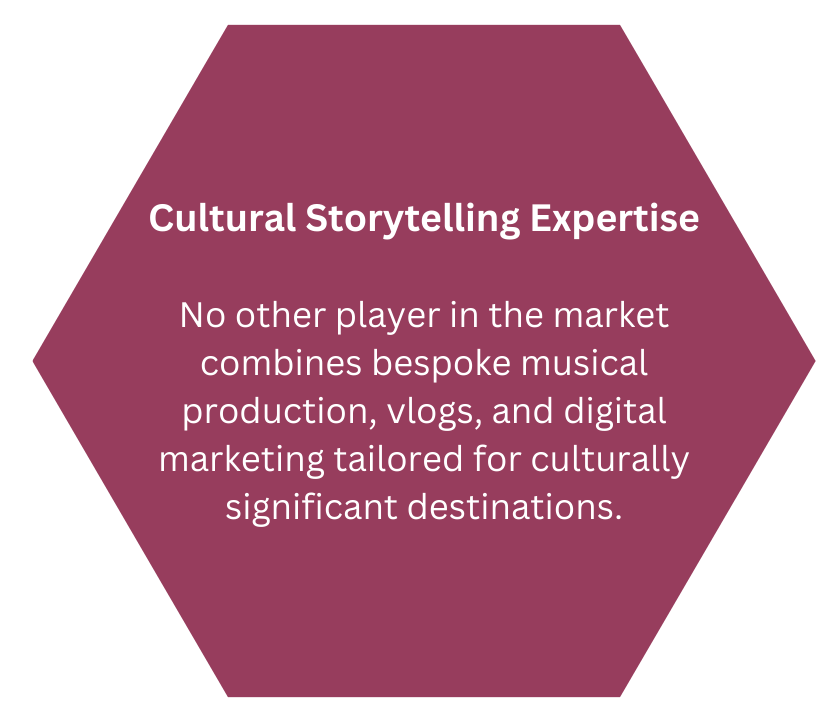
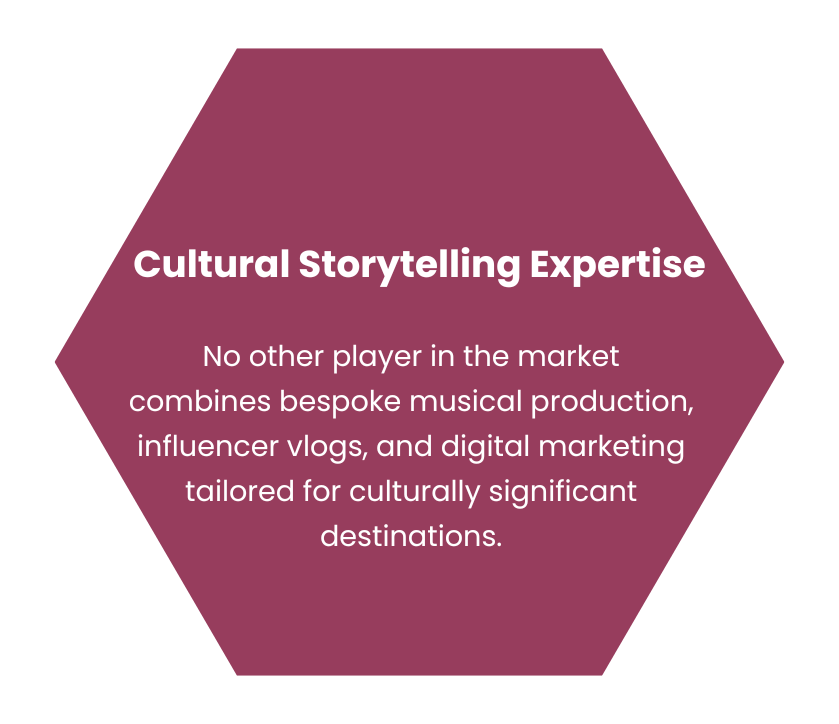
Styling changes for unwind communications

Changed region(s): [[0.031, 0.0304, 0.9917, 0.9724]]

diff --git a/src/components/Instagram/Section3.js b/src/components/Instagram/Section3.js
@@ -43,16 +43,18 @@ const Section3 = () => {
           data-aos-duration="800"
         >
           <h3 className="section3-subtitle">
-            Empowering PM Modi&apos;s Vision For भारत As a Leading Global
-            Destination
+            Empowering{" "}
+            <span style={{ color: "#973d5d" }}>PM Modi&apos;s Vision</span> For{" "}
+            <span style={{ color: "#973d5d" }}>भारत</span> As a{" "}
+            <span style={{ color: "#973d5d" }}>Leading Global Destination</span>
           </h3>
           <p>
-            Our Respected Prime Minister, Shri Narendra Modi Ji, envisions
-            Bharat as a Leading Global Destination for Wedding and MICE Tourism,
-            showcasing India’s Vibrancy, Grandeur, and Cultural Magnificence as
-            the ultimate destination to explore. Shefali is deeply committed to
-            bringing this vision to life, transforming PM Modi Ji’s dream into a
-            remarkable reality!
+            Our Respected Prime Minister, Shri Narendra Modi Ji, envisions{" "}
+            <b>Bharat</b> as a <b>Leading Global Destination</b> for Wedding and
+            MICE Tourism, showcasing India’s Vibrancy, Grandeur, and Cultural
+            Magnificence as the ultimate destination to explore. Shefali is
+            deeply committed to bringing this vision to life, transforming{" "}
+            <b>PM Modi Ji’s dream into a remarkable reality!</b>
           </p>
         </div>
         {isMobile && (
@@ -78,13 +80,18 @@ const Section3 = () => {
           data-aos="fade-right"
           data-aos-duration="800"
         >
-          <h3 className="section3-subtitle">Award for Excellence</h3>
+          <h3 className="section3-subtitle">
+            Shefali&apos;s <span style={{ color: "#973d5d" }}>Recognition</span>{" "}
+            And <span style={{ color: "#973d5d" }}>Achievements</span>
+          </h3>
           <p>
-            Shefali is awarded as a POWER WOMAN by renowned lyricist and
-            screenwriter, Javed Akhtar Sahab with a dedicated poetry in his
-            handwriting for her Incredible work in Ghoomar - A Royal Folk as a
-            Singer, Performer, Director and Producer! This award is powered by
-            IPRS, Dolby and Hungama.
+            Shefali Saxena is awarded as a <b>POWER WOMAN</b> by renowned
+            lyricist & screenwriter, <b>Javed Akhtar Sahab</b> with a dedicated
+            poetry in his handwriting for her Incredible works in{" "}
+            <b>Ghoomar - A Royal Folk</b> as a Featured Artist, Singer, Director
+            & Producer, supporting folk musicians!
+            <br />
+            <b>This award is powered by IPRS, Dolby & Hungama.</b>
           </p>
         </div>
         <div

diff --git a/src/components/Instagram/About.js b/src/components/Instagram/About.js
@@ -21,7 +21,12 @@ const About = () => {
         <div className="container-fluid">
           <div className="row align-items-center">
             {isMobile && (
-              <h2 style={{ color: "#041d33", textAlign: "center" }}>
+              <h2
+                style={{
+                  color: "#973d5d",
+                  textAlign: "center",
+                }}
+              >
                 About Us
               </h2>
             )}
@@ -52,15 +57,18 @@ const About = () => {
               data-aos-once="true"
             >
               <div className="about-content">
-                {!isMobile && <h2 style={{ color: "#041d33" }}>About Us</h2>}
+                {!isMobile && <h2 style={{ color: "#973d5d" }}>About Us</h2>}
 
                 <p>
-                  At Unwind Communications, we bring most stunning destinations
-                  and venues to life on streaming platforms, creating a visual
-                  experience that resonates worldwide.
+                  At <b>Unwind Communications</b>, we bring{" "}
+                  <b>
+                    most stunning destinations and venues to life on streaming
+                    platforms
+                  </b>
+                  , creating a visual experience that resonates worldwide.
                 </p>
                 <p>
-                  Our expertise extends beyond the initial presentation. We
+                  Our expertise extends beyond the initial global reach. We
                   amplify your story through:
                   <ul>
                     <li>
@@ -75,9 +83,11 @@ const About = () => {
                   </ul>
                 </p>
                 <p>
-                  within the <b>MICE, Travel </b> and <b>Wedding Industries.</b>{" "}
-                  We don’t just enhance brand visibility; we forge powerful
-                  narratives that open up new realms of opportunity
+                  within the <b>MICE, Travel, Event </b> and{" "}
+                  <b>Wedding Industries.</b> We don’t just enhance brand
+                  visibility; we forge powerful narratives through Vlogs that
+                  open up new realms of opportunity{" "}
+                  <b>for B2B opportunities & conversions</b>.
                 </p>
 
                 {/* <div className="btn-box"> */}

diff --git a/src/components/Instagram/VideoArea.js b/src/components/Instagram/VideoArea.js
@@ -29,23 +29,26 @@ const VideoArea = () => {
             >
               <div className="video-content">
                 <h2 style={{ color: "#041d33" }}>
-                  Official Recognition From The Ministry Of Tourism & Culture,
-                  Government Of India:
+                  Official Recognition From The{" "}
+                  <span style={{ color: "#973d5d" }}>
+                    Ministry Of Tourism & Culture
+                  </span>
+                  , Government Of India
                 </h2>
                 <p>
-                  Proudly endorsed by the{" "}
+                  Proudly endorsed by Shri. Gajendra Singh Shekhawat ji, the{" "}
                   <b>Minister of Tourism & Culture, Government of India,</b>{" "}
                   Unwind Communications is recognized for its pivotal role in{" "}
-                  promoting India’s cultural heritage. This recognition
+                  <b>promoting India’s cultural heritage</b>. This recognition
                   strengthens our mission to convert cultural storytelling into:
                 </p>
                 <ul>
-                  <li>Thriving Business Opportunities,</li>
-                  <li>Driving Tourism Growth,</li>
-                  <li>Empowering Local Economies,</li>
+                  <li>Thriving Business Opportunities</li>
+                  <li>Driving Tourism Growth</li>
+                  <li>Empowering Local Economies</li>
                   <li>
                     Positioning India&apos;s heritage as a cornerstone of global
-                    travel experiences.
+                    travel experiences
                   </li>
                 </ul>
               </div>

diff --git a/src/components/Instagram/Section4.js b/src/components/Instagram/Section4.js
@@ -29,16 +29,24 @@ const Section4 = () => {
             >
               <div className="video-content">
                 <h2 style={{ color: "#041d33" }}>
-                  INDIA-RUSSIA BUSINESS FORUM
+                  INDIA-RUSSIA{" "}
+                  <span style={{ color: "#973d5d" }}>
+                    BUSINESS FORUM, by FICCI India
+                  </span>
                 </h2>
                 <p>
-                  Empowering Global Collaboration: Hosted the distinguished
-                  India-Russia Business Forum, featuring a keynote address by
-                  External Affairs Minister Dr. S. Jaishankar on bilateral
-                  agreements and business connectivity.
+                  A Prestigious Event Hosted by{" "}
+                  <span style={{ color: "#973d5d" }}>Shefali Saxena</span>
                 </p>
                 <p>
-                  Trusted by the Ministry of External Affairs: with her
+                  <b>Empowering Global Collaboration</b>: Hosted the
+                  distinguished India-Russia Business Forum, featuring a keynote
+                  address by Hon&apos;ble External Affairs Minister Dr. S.
+                  Jaishankar on bilateral agreements and business connectivity
+                  between 2 countries.
+                </p>
+                <p>
+                  <b>Trusted by the Ministry of External Affairs</b>: With her
                   expertise in orchestrating protocol and special events,
                   Shefali Saxena continues to solidify her role as a trusted
                   professional for high-profile national and international

diff --git a/src/components/Instagram/Solution.js b/src/components/Instagram/Solution.js
@@ -27,10 +27,10 @@ const Solution = () => {
           data-aos-duration="800"
           data-aos-once="true"
         >
-          <h2 style={{ color: "#041d33" }}>The Solution</h2>
+          <h2 style={{ color: "#041d33" }}>Solution To The Problem</h2>
           <p>
             Unwind Communications transforms underrepresented destinations into
-            sought-after experiences by combining creativity, cultural
+            sought-after experiences by combining unique creativity, cultural
             authenticity, and strategic marketing, ensuring maximum visibility
             and engagement.
           </p>
@@ -108,8 +108,9 @@ const Solution = () => {
             )}
 
             <p>
-              Amplifying reach through media platforms, influencers, and social
-              channels, ensuring standout visibility in a crowded market.
+              Amplifying reach through media & electronic publications &
+              distributing on streaming platforms for the organic reach &
+              visibility.
             </p>
           </div>
         </div>
@@ -145,8 +146,9 @@ const Solution = () => {
               </h5>
             )}
             <p>
-              Creative blogs, social media content, and SEO strategies connect
-              venues to global audiences, driving discovery and engagement.
+              Creative blogs, social media content, influencer programs & SEO
+              strategies connect venues to global audiences, driving discoved
+              engagement.
             </p>
           </div>
         </div>

diff --git a/src/components/Instagram/Problem.js b/src/components/Instagram/Problem.js
@@ -22,17 +22,21 @@ function Problem() {
           </div>
           <div className="col-lg-6 col-md-12">
             <div className="video-content">
-              <h2 style={{ color: "#041d33" }}>The Challenge</h2>
+              <h2 style={{ color: "#041d33" }}>The Problem We Solve</h2>
               <p>
-                The tourism and event industry is evolving, yet culturally rich
-                destinations and venues remain underrepresented in the digital
-                landscape.
+                The tourism, wedding, MICE and event industry is evolving, yet{" "}
+                <b>culturally rich destinations</b> and{" "}
+                <b>venues remain underrepresented</b> in the digital landscape
               </p>
               <p>
-                Without engaging, high-quality audio-visual content, they fail
-                to connect with global audiences and stand out in a saturated
-                tourism market dominated by social media and experiential
-                storytelling.
+                Without{" "}
+                <b>
+                  engaging, high-quality audio-visual content and targeted
+                  promotions
+                </b>
+                , they fail to connect with global audiences and stand out in a
+                saturated tourism market dominated by{" "}
+                <b>social media and experiential storytelling</b>.
               </p>
             </div>
           </div>

diff --git a/src/components/Instagram/Process.js b/src/components/Instagram/Process.js
@@ -47,8 +47,9 @@ function Process() {
         >
           <h2 style={{ color: "#041d33" }}>Execution Plan</h2>
           <p>
-            The execution plan calls for 35 to 40 posts each quarter, alongside
-            the creation of 20 to 25 videos for platforms like YouTube and Reels
+            The execution plan calls for <b>35 to 40 posts each quarter</b>,
+            alongside the creation of <b>20 to 25 videos</b> for platforms like
+            YouTube and other Digital Channels apart from Reels for Social Media
             within the same period.
           </p>
         </div>

diff --git a/src/components/Instagram/WhyWe.js b/src/components/Instagram/WhyWe.js
@@ -44,7 +44,8 @@ const WhyWe = () => {
           <h2 style={{ color: "#041d33" }}>Why Us?</h2>
           <p>
             Unwind Communications operates in a highly niche market, focusing on
-            destination and venue promotion through musical videos and vlogs.
+            destination and venue promotion through bespoke musical videos and
+            story telling vlogs showcasing its cultural aesthetics.
           </p>
           <p>
             While there are no direct competitors offering the same combination

diff --git a/src/components/Instagram/Testimonials.js b/src/components/Instagram/Testimonials.js
@@ -127,7 +127,9 @@ const Testimonials = () => {
             viewport={{ once: true }}
             variants={fadeInUp}
           >
-            <h2 style={{ color: "#041d33" }}>Case Study</h2>
+            <h2 style={{ color: "#041d33" }}>
+              Case <span style={{ color: "#973d5d" }}>Study</span>
+            </h2>
             <p>
               Chomu Palace faced challenges in reaching its target audience
               effectively. Through a comprehensive media strategy including the

diff --git a/src/components/Instagram/ProblemProcessSolution.js b/src/components/Instagram/ProblemProcessSolution.js
@@ -24,12 +24,12 @@ const ProblemProcessSolution = () => {
             textAlign: "center",
             marginTop: "30px",
             marginBottom: "20px",
-            color: "rgb(151, 61, 93)",
-            fontSize: "30px",
+            color: "#973d5d",
+            fontSize: "36px",
+            fontWeight: "700",
           }}
         >
-          {" "}
-          How We Tackle the Challenge{" "}
+          How We Tackle the Challenge
         </h1>
 
         <Problem />

diff --git a/src/components/Instagram/Services.js b/src/components/Instagram/Services.js
@@ -21,6 +21,7 @@ const Services = () => {
                 fontSize: "36px",
                 fontWeight: "700",
                 textAlign: "center",
+                // color: "#973d5d",
               }}
             >
               Services we offer

diff --git a/styles/style.css b/styles/style.css
@@ -35,7 +35,7 @@ body {
   padding: 0;
   margin: 0;
   font-size: 17px;
-  font-family: var(--font-work-sans);
+  font-family: var(--font-poppins);
   overflow-x: hidden;
 }
 
